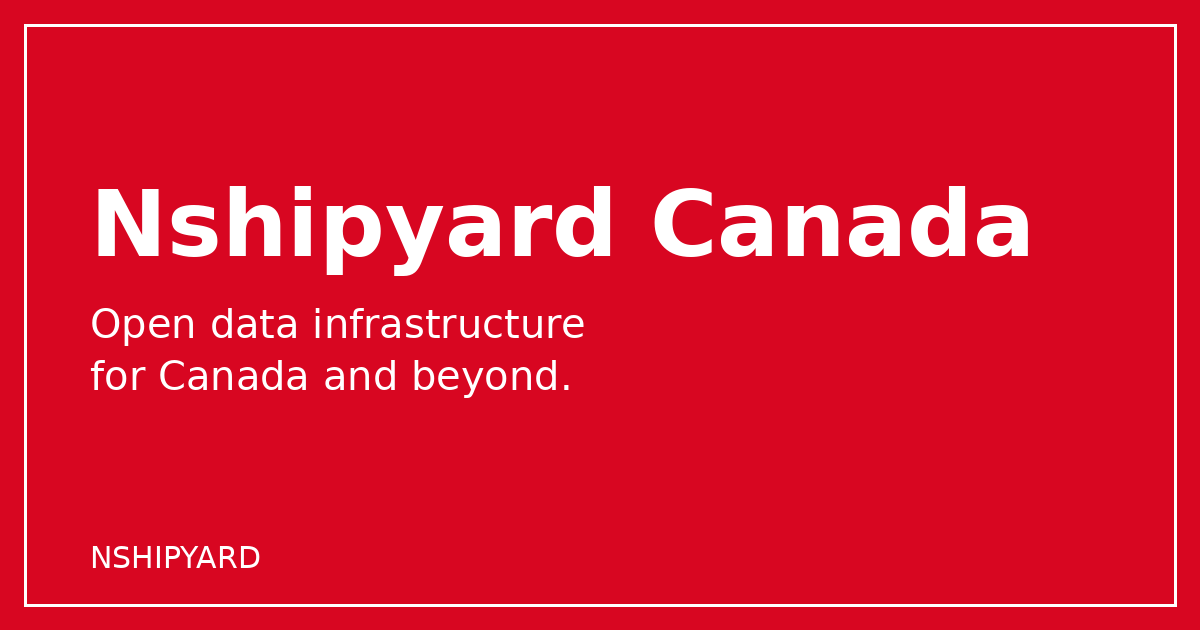
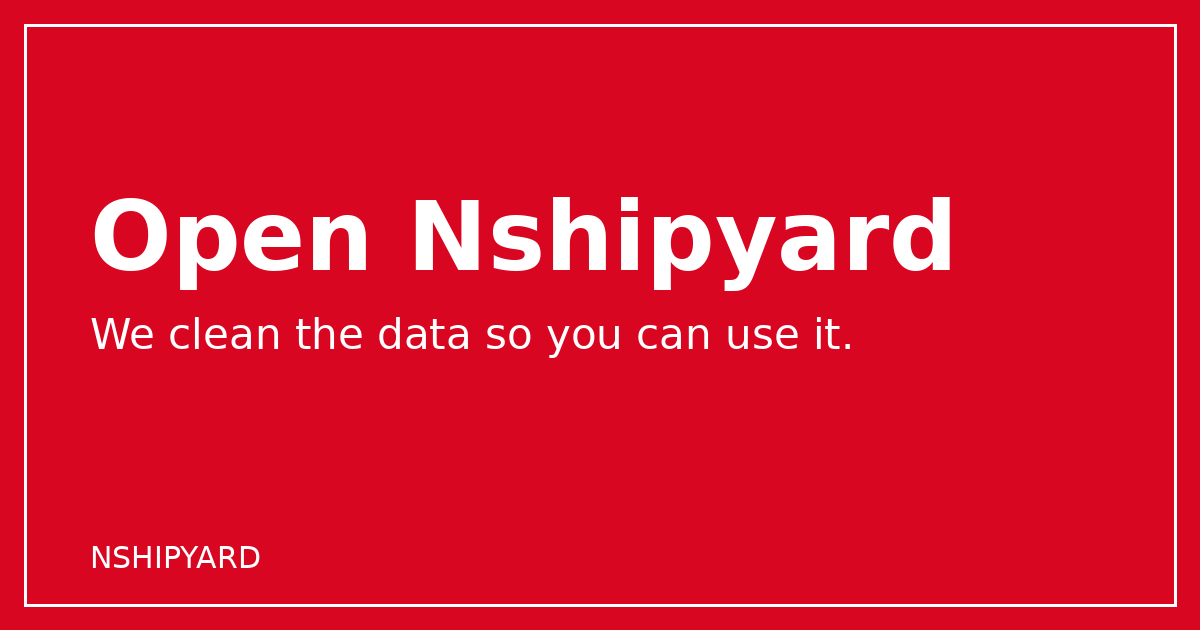
Restore social metadata (was dropped in rename); refresh OG card to Open Nshipyard

Changed region(s): [[0.0617, 0.3016, 0.8633, 0.4825], [0.0617, 0.4825, 0.7092, 0.6333]]

diff --git a/src/app/layout.tsx b/src/app/layout.tsx
@@ -8,9 +8,26 @@ import "./globals.css";
 import { LangProvider } from "@/i18n";
 
 export const metadata: Metadata = {
+  metadataBase: new URL("https://canada.nshipyard.com"),
   title: "Open Nshipyard: We clean the data so you can use it",
   description:
-    "Eight open-source projects that clean, join, and publish Toronto's most valuable public datasets. Explorer interfaces for humans, documented APIs and MCP tools for AI agents.",
+    "We turn messy public data into open infrastructure: explorer interfaces for humans, documented APIs and MCP tools for AI agents. Starting with Canada's civic data, already answering questions about the whole planet.",
+  openGraph: {
+    title: "Open Nshipyard: We clean the data so you can use it",
+    description:
+      "We turn messy public data into open infrastructure: explorer interfaces for humans, documented APIs and MCP tools for AI agents. Starting with Canada's civic data, already answering questions about the whole planet.",
+    url: "https://canada.nshipyard.com",
+    siteName: "Open Nshipyard",
+    images: [{ url: "/og-card.png", width: 1200, height: 630, alt: "Open Nshipyard — We clean the data so you can use it" }],
+    type: "website",
+  },
+  twitter: {
+    card: "summary_large_image",
+    title: "Open Nshipyard: We clean the data so you can use it",
+    description:
+      "We turn messy public data into open infrastructure: explorer interfaces for humans, documented APIs and MCP tools for AI agents. Starting with Canada's civic data, already answering questions about the whole planet.",
+    images: ["/og-card.png"],
+  },
 };
 
 export default function RootLayout({ children }: { children: React.ReactNode }) {
